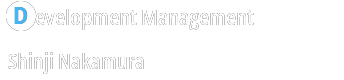
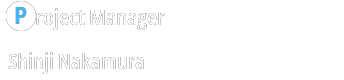
Phase 8: PSP text coverage (cover.py, 6705/6844), credits cards capped on screen, choice inkbox
- tools/debug/cover.py: logging breakpoint on the text-box setter 0x08817C88 (PPSSPPHeadless -l --loglevel=1),
  plays every SOS script from a cold-boot title state and every scenes.tsv row; log.txt for textcover.py
- docs/text_unshown.tsv: 5 U+3000 pause boxes, 18 PPGe save dialogs
- staff-roll disc cards slide to screen x ~300: ink capped at 180 px (913/918/921/923 were cut); 913 Project
  Manager, 923 Kadokawa Shoten Co., Ltd., 925 General Producer; tests/test_gfx.py
- warp.py route step shot[:NAME]; Drive extra emulator args
- status, gotchas

diff --git a/tools/debug/cover.py b/tools/debug/cover.py
@@ -1,0 +1,166 @@
+"""Text coverage for textcover.py (PPSSPP has no Lua): a logging breakpoint on the text-box setter logs every string
+the game shows, and every SOS script is played from the title by script warp, mashing circle.
+
+    python -X utf8 tools/debug/cover.py strings --out work/qa/cover/strings.tsv   # id -> key list (this build)
+    python -X utf8 tools/debug/cover.py run [ISO] --out work/qa/cover [--only SC1/SC10000,..] [--keys circle]
+                                        [--jobs 3] [--limit 40000] [--tag p0]
+    python -X utf8 tools/debug/cover.py scenes [ISO] --out work/qa/cover/scenes [--only NAME,..]   # scenes.tsv rows
+    python -X utf8 $SKILL/scripts/textcover.py work/qa/cover work/qa/cover/strings.tsv --waive docs/text_unshown.tsv
+
+Hook: 0x08817C88(a0 = box index, a1 = string) sets a text box's string (dialogue, help bar, Hexcite reactions);
+called once per string. PPSSPPHeadless `-l --loglevel=1` prints `TXT <a1> <string>` per call; each run's
+ppsspp.log becomes log.txt with `TEXT <key>` lines. Keys: EBOOT rows by address (a1 is the slot itself), SOS rows by
+their built text (build.text_for), since a1 points into a decoded pool buffer. `run` cold-boots once per ISO
+(OUT/_base: title state + the save the boot creates), then each script starts from that state and ends when the game
+leaves the script scene (5:11) or after --limit frames. A choice needs a direction before circle: the default keys
+down,up,circle take the first option, --keys down,circle the second, down,down,circle the third.
+"""
+import argparse, concurrent.futures as cf, glob, os, re, shutil, sys, time
+
+HERE = os.path.dirname(os.path.abspath(__file__))
+ROOT = os.path.dirname(os.path.dirname(HERE))
+sys.path.insert(0, HERE); sys.path.insert(0, ROOT); sys.path.insert(0, os.path.join(ROOT, "tools"))
+import warp  # noqa: E402
+from drive import Drive  # noqa: E402
+
+HOOK = 0x08817C88
+LOGARGS = ("-l", "--loglevel=1")
+ENTRY = re.compile(r"BKP PC=08817c88: TXT ([0-9a-f]{8}) ")
+STAMP = re.compile(r"^\d\d:\d\d:\d\d\d |^--debugger")
+
+
+def rows():
+    """[(id, source, built text)] for every script/ row the game can show, in a fixed order."""
+    import build, script
+    out = []
+    for p in sorted(glob.glob(os.path.join(script.SCRIPT, "sos", "*", "*.tsv"))):
+        for r in script.read_tsv(p):
+            out.append((r["id"], "sos", build.text_for(r, None, {}, "sos")))
+    for r in script.read_tsv(os.path.join(script.SCRIPT, "eboot.tsv")):
+        out.append((r["id"], "eboot", build.text_for(r, None, {}, "eboot")))
+    return out
+
+
+def keymap():
+    """(id -> key, eboot address -> key, built text -> [keys]); key = 0x10000000 + row index (no address clash)."""
+    ids, by_addr, by_text = {}, {}, {}
+    for i, (rid, src, text) in enumerate(rows()):
+        k = 0x10000000 + i
+        ids[rid] = k
+        if src == "eboot": by_addr[int(rid, 16)] = k
+        if text: by_text.setdefault(norm(text), []).append(k)
+    return ids, by_addr, by_text
+
+
+def norm(t): return "\n".join(l.rstrip() for l in t.replace("\r", "").split("\n")).strip()
+
+
+def entries(log):
+    """[(address, text)] from a ppsspp.log with the breakpoint's multi-line TXT entries."""
+    out, cur = [], None
+    with open(log, encoding="utf-8", errors="replace") as f:
+        for line in f:
+            m = ENTRY.search(line)
+            if m:
+                cur = [int(m.group(1), 16), line[m.end():]]; out.append(cur)
+            elif cur and not STAMP.match(line):
+                cur[1] += line
+            else:
+                cur = None
+    return [(a, norm(t)) for a, t in out]
+
+
+def convert(log, km):
+    """Write log.txt (TEXT <key> per shown string) beside LOG; return (shown keys, unmatched texts)."""
+    _, by_addr, by_text = km
+    keys, miss = set(), []
+    for a, t in entries(log):
+        if a in by_addr: keys.add(by_addr[a])
+        elif t in by_text: keys.update(by_text[t])
+        elif t and t != "/K": miss.append(t)
+    with open(os.path.join(os.path.dirname(log), "log.txt"), "w", encoding="utf-8") as f:
+        f.writelines(f"TEXT {k:08X}\n" for k in sorted(keys))
+        f.writelines(f"# unmatched: {t!r}\n" for t in miss)
+    return keys, miss
+
+
+def hook(D):
+    D.r.ws.call("cpu.breakpoint.add", address=HOOK, enabled=False, log=True, logFormat="TXT {a1} {a1:s}")
+
+
+def prepare(iso, base):
+    """Cold boot to the title once: base/title.ppst + base/memstick (the save the boot creates; Communication Mode
+    refuses to start without it)."""
+    st = os.stat(iso); stamp = f"{st.st_size} {st.st_mtime_ns}"
+    tag = os.path.join(base, "iso.txt")
+    if os.path.exists(tag) and open(tag).read() == stamp: return
+    shutil.rmtree(base, ignore_errors=True)
+    D = Drive(iso, base)
+    try: warp.boot_to_title(D); D.save(os.path.abspath(os.path.join(base, "title.ppst")))
+    finally: D.close()
+    open(tag, "w").write(stamp)
+
+
+def play_script(iso, path, out, keys, limit, base):
+    shutil.rmtree(out, ignore_errors=True)
+    shutil.copytree(os.path.join(base, "memstick"), os.path.join(out, "memstick"))
+    D = Drive(iso, out, state=os.path.join(base, "title.ppst"), extra=LOGARGS)
+    try:
+        hook(D)
+        warp.start_script(D, path)
+        D.until(lambda d: warp.where(d) != warp.SCRIPT, limit, step=200, key=keys, every=10)
+        return warp.where(D), D.f
+    finally:
+        D.close(); shutil.rmtree(os.path.join(out, "memstick"), ignore_errors=True)
+
+
+def scripts():
+    import script
+    return sorted(os.path.relpath(p, os.path.join(script.SCRIPT, "sos"))[:-4].replace(os.sep, "/")
+                  for p in glob.glob(os.path.join(script.SCRIPT, "sos", "*", "*.tsv")))
+
+
+def main():
+    ap = argparse.ArgumentParser(description=__doc__, formatter_class=argparse.RawDescriptionHelpFormatter)
+    ap.add_argument("cmd", choices=["strings", "run", "scenes", "convert"])
+    ap.add_argument("iso", nargs="?", default="build/sora_en.iso")
+    ap.add_argument("--out", default="work/qa/cover"); ap.add_argument("--only")
+    ap.add_argument("--keys", default="down,up,circle"); ap.add_argument("--tag", default="p0")
+    ap.add_argument("--jobs", type=int, default=3); ap.add_argument("--limit", type=int, default=40000)
+    a = ap.parse_args()
+    km = keymap()
+    if a.cmd == "strings":
+        os.makedirs(os.path.dirname(a.out) or ".", exist_ok=True)
+        with open(a.out, "w", encoding="utf-8", newline="") as f:
+            f.writelines(f"{rid}\t{k:08X}\n" for rid, k in km[0].items())
+        return print(f"{len(km[0])} strings -> {a.out}")
+    if a.cmd == "convert":
+        for log in glob.glob(os.path.join(a.out, "**", "ppsspp.log"), recursive=True): convert(log, km)
+        return
+    if a.cmd == "scenes":
+        names = a.only.split(",") if a.only else list(warp.load_scenes())
+        orig = warp.Drive
+        warp.Drive = lambda iso, out, **k: (lambda D: (hook(D), D)[1])(orig(iso, out, extra=LOGARGS, **k))
+        for n in names:
+            d = os.path.join(a.out, n)
+            try: ok, got, _ = warp.warp(a.iso, n, d)
+            except (AssertionError, EOFError, RuntimeError) as e: ok, got = False, str(e)
+            keys, miss = convert(os.path.join(d, "ppsspp.log"), km)
+            print(f"{'ok ' if ok else 'BAD'} {n:24} {got} {len(keys)} strings, {len(miss)} unmatched", flush=True)
+        return
+    todo = a.only.split(",") if a.only else scripts()
+    base = os.path.join(a.out, "_base"); prepare(a.iso, base)
+
+    def one(k):
+        t = time.time(); d = os.path.join(a.out, a.tag, k.replace("/", "_"))
+        try: got, f = play_script(a.iso, k.lower() + ".sos", d, a.keys, a.limit, base)
+        except (AssertionError, EOFError, RuntimeError) as e: got, f = str(e)[:80], 0
+        keys, miss = convert(os.path.join(d, "ppsspp.log"), km)
+        return f"{k:16} {got} f{f} {len(keys)} strings, {len(miss)} unmatched {time.time() - t:.0f}s"
+
+    with cf.ThreadPoolExecutor(a.jobs) as ex:
+        for line in ex.map(one, todo): print(line, flush=True)
+
+
+if __name__ == "__main__":
+    main()

diff --git a/tools/debug/warp.py b/tools/debug/warp.py
@@ -95,11 +95,14 @@ def to_hub(D):
 def run_route(D, route):
     """emu.py route steps; a `cheat:NAME` step pokes CHEATS[NAME] at that point (for state that only exists
     mid-route, such as a Hexcite match); `until:M:S:LIMIT[:KEYS]` runs (tapping the comma-separated KEYS in turn,
-    one every 20 frames) until mode:scene is M:S, and fails the warp if LIMIT frames pass first."""
+    one every 20 frames) until mode:scene is M:S, and fails the warp if LIMIT frames pass first; `shot[:NAME]` takes
+    an extra screenshot (multi-page screens: tutorials, credits)."""
     for step in route.split(";"):
         step = step.strip()
         if step.startswith("cheat:"):
             cheat(D, step[6:]); continue
+        if step.startswith("shot"):   # shot or shot:NAME, an extra screenshot mid-route
+            D.shot(f"{step[5:] or 'f%06d' % D.f}.png"); continue
         if step.startswith("until:"):
             m, s, limit, *keys = step[6:].split(":")
             ok = D.until(lambda d: where(d) == (int(m), int(s)), int(limit), step=20,

diff --git a/tools/gfx_credits.py b/tools/gfx_credits.py
@@ -127,10 +127,13 @@ def draw(row, im):
             top = im.crop((0, 0, im.width, 30))
             cv.paste(top, (0, 0))
     elif n <= 925:
+        # the 344-px card slides right while shown (screen x 232..300 in the staff roll), so ink past ~180 px is cut
+        # at the screen edge at some point (913, 918, 921, 923 were; the wider Japanese was too)
+        vis = 180
         head, name = lines
         disc(cv, head[0])
-        put(cv, head[1:], HEAD, SIZES["head"] + 1, WHITE, 36, 17.5, im.width - 38)
-        put(cv, name, NAME, SIZES["name"], WHITE, 8, 61.5, im.width - 10)
+        put(cv, head[1:], HEAD, SIZES["head"] + 1, WHITE, 36, 17.5, vis - 38)
+        put(cv, name, NAME, SIZES["name"], WHITE, 8, 61.5, vis - 10)
     elif n == 926:
         size = 19
         put(cv, lines[0], NAME, size, WHITE, 9, 23, im.width - 10)

diff --git a/tests/test_gfx.py b/tests/test_gfx.py
@@ -1,0 +1,14 @@
+"""Graphics redraws that the screen can cut: staff-roll cards slide right while shown (docs/re/graphics.md)."""
+import os
+import pytest
+from PIL import Image
+
+ROOT = os.path.dirname(os.path.dirname(os.path.abspath(__file__)))
+OUT, ORIG = os.path.join(ROOT, "gfx", "out", "credits"), os.path.join(ROOT, "work", "gimpng")
+
+
+@pytest.mark.skipif(not os.path.isdir(ORIG), reason="needs work/gimpng (tools/gimsurvey.py)")
+def test_credit_cards_stay_on_screen():
+    # cards 910-925 slide to screen x ~300 during the roll: ink past 180 px is cut at the screen edge
+    for n in range(910, 926):
+        assert Image.open(os.path.join(OUT, f"{n:04d}.png")).getbbox()[2] <= 180, n

diff --git a/tests/test_scenes.py b/tests/test_scenes.py
@@ -18,6 +18,7 @@ def test_scene_rows():
         for step in route.split(";"):
             step = step.strip()
             if step.startswith("cheat:"): assert step[6:] in warp.CHEATS, (name, step)
+            elif step.startswith("shot"): assert step == "shot" or step.startswith("shot:"), (name, step)
             elif step.startswith("until:"):
                 m, s, limit, *keys = step[6:].split(":")
                 assert m.isdigit() and s.isdigit() and limit.isdigit() and len(keys) <= 1, (name, step)

diff --git a/tools/debug/drive.py b/tools/debug/drive.py
@@ -19,8 +19,8 @@ RAM, RAM_SIZE = 0x08800000, 0x01800000
 
 
 class Drive:
-    def __init__(self, iso, out, state=None, memstick=None):
-        self.r = psp.Run(psp.find_emu(None), iso, out, state=state, memstick=memstick)
+    def __init__(self, iso, out, state=None, memstick=None, extra=()):
+        self.r = psp.Run(psp.find_emu(None), iso, out, state=state, memstick=memstick, extra=extra)
         self.f = 0; self.out = out; self.nshot = 0
 
     def run(self, n):

diff --git a/docs/status.md b/docs/status.md
@@ -2,9 +2,10 @@
 
 Updated at the end of every session. Keep it to what the next session needs; history is in git.
 
-- **Phase:** 8. QA in the emulator in progress: all graphics groups drawn (waves 1+2); QA tour + visual-QA gate
-  next. Last good build: 2026-11-22 build/sora_en.iso sha1 dc618f55... (all text + all graphics + XMB icon), smoke
-  ok. warp.py defaults to the ORIGINAL ISO: pass build/sora_en.iso.
+- **Phase:** 8. QA in the emulator in progress: tour gate was green on dc618f55; text coverage 6705/6844; credits
+  fix rebuilt. Last good build: 2026-11-22 19:16 build/sora_en.iso sha1 14b5c6da... (dc618f55 + credits cards
+  910-925 capped at 180 px), smoke ok; tour/qa_gate must be re-run on it. warp.py defaults to the ORIGINAL ISO: pass
+  build/sora_en.iso.
 - **Done:**
   - Step 0: ROM pinned (`rom.sha1`), PPSSPP v1.20.4 in `tools/ppsspp/`, PPSSPPHeadless qa-1 shared install, smoke boots
     the original ISO, pre-commit runs `tools/check.py`, guard hook blocks `sed -i`, rulings D1-D7 in docs/decisions.md.
@@ -68,17 +69,45 @@ Updated at the end of every session. Keep it to what the next session needs; his
     Credit name readings the agent was unsure of: 針生一 Hajime Hario, 藤井慧 Kei Fujii, 久坂真生 Mao Kusaka, 長信考
     Nobutaka Cho, 鏡谷陽一 Yoichi Kagamiya, 松宮庸典 Tsunenori Matsumiya, 藤岡迅彦 Hayahiko Fujioka, 山下雅水 Masami
     Yamashita, 田邉香 Kaori Tanabe, 本田稔裕 Toshihiro Honda (gfx/credits.tsv; best-guess Hepburn).
+  - Phase 8 QA session 3 (2026-11-22): `tools/debug/cover.py` = PSP text coverage (logging breakpoint on the
+    text-box setter 0x08817C88, dialogue + choices + EBOOT help/reactions; every SOS script played from a cold-boot
+    title state, mashing `down,up,circle` = first choice option). Choice boxes pass inkbox (SC10030 3 options,
+    work/qa/gfxshots/choice_10030/t12.png, rects 58,40,304,22 88,82,304,22 118,124,304,22). In-game shots (work/qa/
+    gfxshots/): all 6 Communication tutorial pages + Read it again? prompt, Hexcite tutorial panels up to "Place a
+    piece on this line", whole staff roll (cast cards, role cards, disc cards), Start!/Finish!/Winner-Loser panel.
+    Bug fixed: staff-roll disc cards 910-925 slide right while shown (screen x 232..300), so 913, 918, 921, 923
+    were cut at the screen edge (the wider Japanese would be too); gfx_credits caps their ink at 180 px (font
+    shrinks), tests/test_gfx.py; 913 = Project Manager, 923 = Kadokawa Shoten Co., Ltd., 925 制作総指揮 = General
+    Producer (924 is Executive Producer).
+    Text coverage pass p0 (build dc618f55): 6697/6844 shown; every SOS message and choice reached except the 5
+    U+3000 pause boxes (shown, but logged as raw SJIS); waivers in docs/text_unshown.tsv (those 5 + 18 PPGe save
+    dialogs). `cover.py scenes` (all 48 rows ok) -> 6705/6844, 23 waived, 116 failing (work/qa/cover/report.txt):
+    hub cursor comments 088C07B4-088C12B4, Options help 088C15B4-088C19B4, Free settings help 088C1CB4-088C1FB4 and
+    088F3E3C-088F3EA8, and the Hexcite post-match reactions 088DCAD0-088E1514 (per opponent x result).
+    warp.py route step `shot[:NAME]` for multi-page rows.
 - **Next:**
   1. DONE 2026-11-22: QA tour on build dc618f55 (`warp.py build/sora_en.iso --all --out work/qa/tour`, 48/48 ok),
      work/qa/manifest.tsv (delete work/qa/tour/*/memstick before `qa_gate.py init ... --glob "*.png"`), 3 visual-QA
      agents (docs/visual-qa-brief.md): 48 ok, 0 issues; `qa_gate.py check work/qa/manifest.tsv work/qa/verdicts`
      exits 0. Any rebuild needs a new tour + init (verdicts of unchanged shots carry over). Cosmetic notes: param-up
      banner "Happy  Up" gap wider than JP (Up sprite is fixed); free_opponent record "D" closer to its digits.
-  2. Graphics frames a scene still doesn't reach (every Hexcite result word, special-move cut-ins, game-over The
-     End?, each profile page, all 6 tutorial pages, every credits card): add scenes or shoot via drive.py, zoom.
-     Agents flagged tight card names 555, 556, 558, 560, 562, 569, 570, 573, 578, 581, 583, 604 and 255 (13 px tags).
-  3. inkbox on choices and centred menu boxes, Hexcite /K reactions, stress cases (longest card names in hand/
-     gallery), textcover (PPSSPP has no Lua: a log source via drive.py peeks of the SOS/message index, or a waiver).
+  2. The credits fix is in the new build (see Phase line); reshoot the roll (`warp.py build/sora_en.iso --scene
+     credits --state-out work/states/credits.ppst`, then Drive run(300)+shot loop to 20000 frames) and check disc cards
+     910-925 aren't cut at the right edge; then new tour + qa_gate init + verdicts (any rebuild invalidates the gate).
+  2b. Coverage: add scene rows (cover.py scenes --only) that walk the cursor over every hub / Options / Free settings
+     item (shot each) and Free Mode matches vs each opponent with each result (poke scores like hexres: +0x774 me,
+     +0x79C COM after free_match + 900 frames, then the free_win mash), then re-run textcover.
+  3. Graphics frames still not shot: Hexcite result words (Big Win!!/Narrow Win/Draw/Lose!/Crushed!!: they play after
+     Finish! and before the Winner/Loser panel, ~f1380-1400 after poking scores +0x774/+0x79C at free_match + 900
+     frames; shoot every 4 frames there), special-move cut-ins (square in a Free Mode match), game-over The End?
+     (IMG_GO, end of the bad ending), profile pages 2-24, later Hexcite tutorial panels (pick a piece up with circle
+     on the tray first, then place). Tight card names 555, 556, 558, 560, 562, 569, 570, 573, 578, 581, 583, 604, 255.
+  4. Text coverage logs (work/qa/cover/p0, scenes) stay valid across graphics-only rebuilds (keys = row order +
+     EBOOT addresses); regenerate strings.tsv (`cover.py strings`) and re-run after any script/ edit. Choice
+     branches 2/3 (`--keys down,circle --tag p1`) aren't needed for coverage (every option text and message was
+     reached) but would show branch-only scenes.
+  5. inkbox on centred menu boxes (hub menu, Hexcite menu), Hexcite /K reactions; stress saves (longest card names
+     in hand: needs the hand array RE'd; max Hexcite record digits; params max).
 - **Non-blocking:** XMB PIC1.PNG keeps its Japanese © line (legal notice, like the company logos). Title kana logo
   kept (D10, open to the user).
 - **Known gaps (non-blocking):** Free Mode Hexcite ES is greyed (unlock flag not found; its text is shared with

diff --git a/docs/skill-gotchas.md b/docs/skill-gotchas.md
@@ -23,3 +23,5 @@ One line per gotcha: the reference file it belongs in, then the fact.
 - references/translation.md (§Batch design) / SKILL.md ground rules: context-mode also trims Bash *output* over ~4 KB to a stub (not only whole-file Reads); keep shell output small or print via ctx_execute.
 - references/emulator-qa.md (§Visual QA): `qa_gate.py init --glob "*.png"` on a PPSSPP warp tour also picks up each run's memstick/PSP/SAVEDATA/*/ICON0.PNG + PIC1.PNG (144 rows for 48 shots); delete the memstick dirs (or narrow the glob) before init.
 - references/emulator-qa.md (§Debug tool): an `until mode:scene` poll every 20 frames can miss a short-lived scene (a level-up banner) on a build whose text timing differs, and the mash then walks into another menu; wait for the scene that lasts (here 5:48, not 5:47).
+- references/emulator-qa.md (§Text coverage, PSP): PPSSPP's WebSocket `cpu.breakpoint.add` with `enabled:false, log:true, logFormat:"TXT {a1} {a1:s}"` logs every call without stopping (`:s` prints the string at a1, newlines included); PPSSPPHeadless prints it only with `-l --loglevel=1` (plain `-l` = debug level, ~27 MB per 900 frames). That is the PSP textcover log source (tools/debug/cover.py here).
+- references/graphics.md (§Lettering): a staff-roll card that slides while shown can be cut by the screen edge though it fits its texture; measure its screen x over the whole display (shots at an interval that isn't a multiple of the card time drift through the slide) and cap the English at max(visible room, the Japanese ink width).

diff --git a/AGENTS.md b/AGENTS.md
@@ -8,6 +8,7 @@ Skill: translate-retro-game (Claude Code: plugin, enabled in .claude/settings.js
 - Check:    `python -X utf8 tools/check.py`  (tests + lint; the pre-commit hook runs this; `git config core.hooksPath tools/hooks` once per clone)
 - Smoke:    `python -X utf8 $SKILL/scripts/emu.py build/sora_en.iso --out work/qa/smoke --route tools/routes/boot.txt --smoke`
 - Warp:     `python -X utf8 tools/debug/warp.py [ISO] --scene <name|sc:sc1/sc10000.sos> [--state-out F]`; `--list`; `--all` regenerates every state in work/states (scene list `tools/debug/scenes.tsv`, notes `docs/re/debug.md`; never ask the user to play to a scene). `tools/debug/drive.py` = mash/peek/poke driver; `tools/debug/mips.py` = EBOOT disasm/xref/scene-case lookup.
+- Coverage: `python -X utf8 tools/debug/cover.py strings|run|scenes` (logging breakpoint, docstring) then `$SKILL/scripts/textcover.py work/qa/cover work/qa/cover/strings.tsv --waive docs/text_unshown.tsv`.
 - Saves:    `python -X utf8 tools/debug/save.py make NAME [--cheat unlock] [--poke OFF:HEX]` -> work/saves/NAME/ULJM05639SoraOto; `save.py check NAME [--route R]` boots it to the hub.
 - Release:  `python -X utf8 tools/release.py` (xdelta3 -B patch + verify; never publish without the user)
 - Clean:    `python -X utf8 tools/clean.py` (published projects: lists rebuildable/downloadable files; `--yes` deletes)
